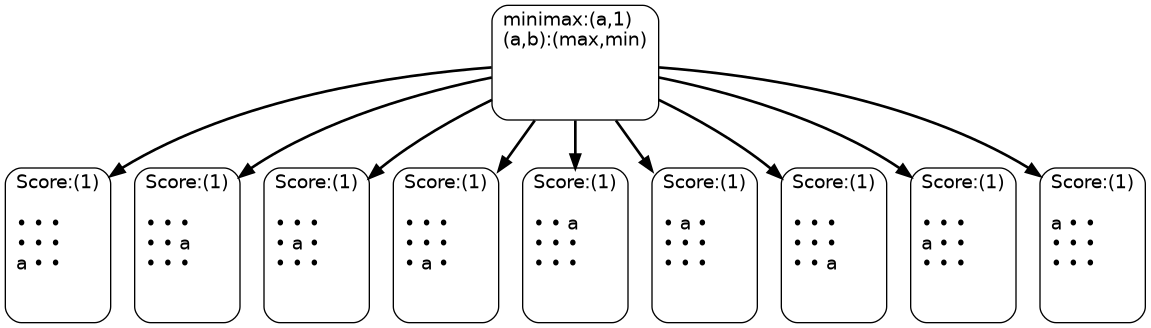
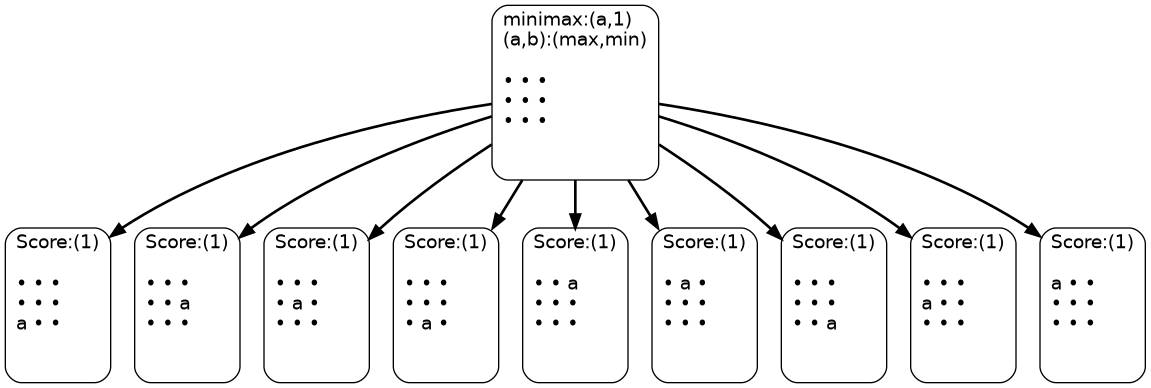
*shankar* modify plotting of tic-tac-toe to including initial state vis

diff --git a/src/game_definitions/game_def.py b/src/game_definitions/game_def.py
@@ -213,20 +213,27 @@ class GameTTTDef(GameDef):
                                              str(fluent))).split(",")
                 hold = [hold[0],[int(hold[1]),int(hold[2])]]
                 to_sub.append(hold)
-        for i in range(self.grid_size):
-            for j in range(self.grid_size):
-                for k, check in enumerate(to_sub):
-                    if [i+1,j+1] in check:
-                        a+=check[0]+" "
-                        break
-                    elif k == (len(to_sub)-1):
-                        a+="• "
-            a += "\n"
+        if to_sub != []:
+            for i in range(self.grid_size):
+                for j in range(self.grid_size):
+                    for k, check in enumerate(to_sub):
+                        if [i+1,j+1] in check:
+                            a+=check[0]+" "
+                            break
+                        elif k == (len(to_sub)-1):
+                            a+="• "
+                a += "\n"
+        else:
+            for i in range(self.grid_size):
+                for j in range(self.grid_size):
+                    a+="• "
+                a += "\n"
         return a
 
     def step_to_ascii(self,step):
         a = "\n"
         if(not step.action):
+            a += self.state_to_ascii(step.state)
             return a
         else:
             to_sub = []
